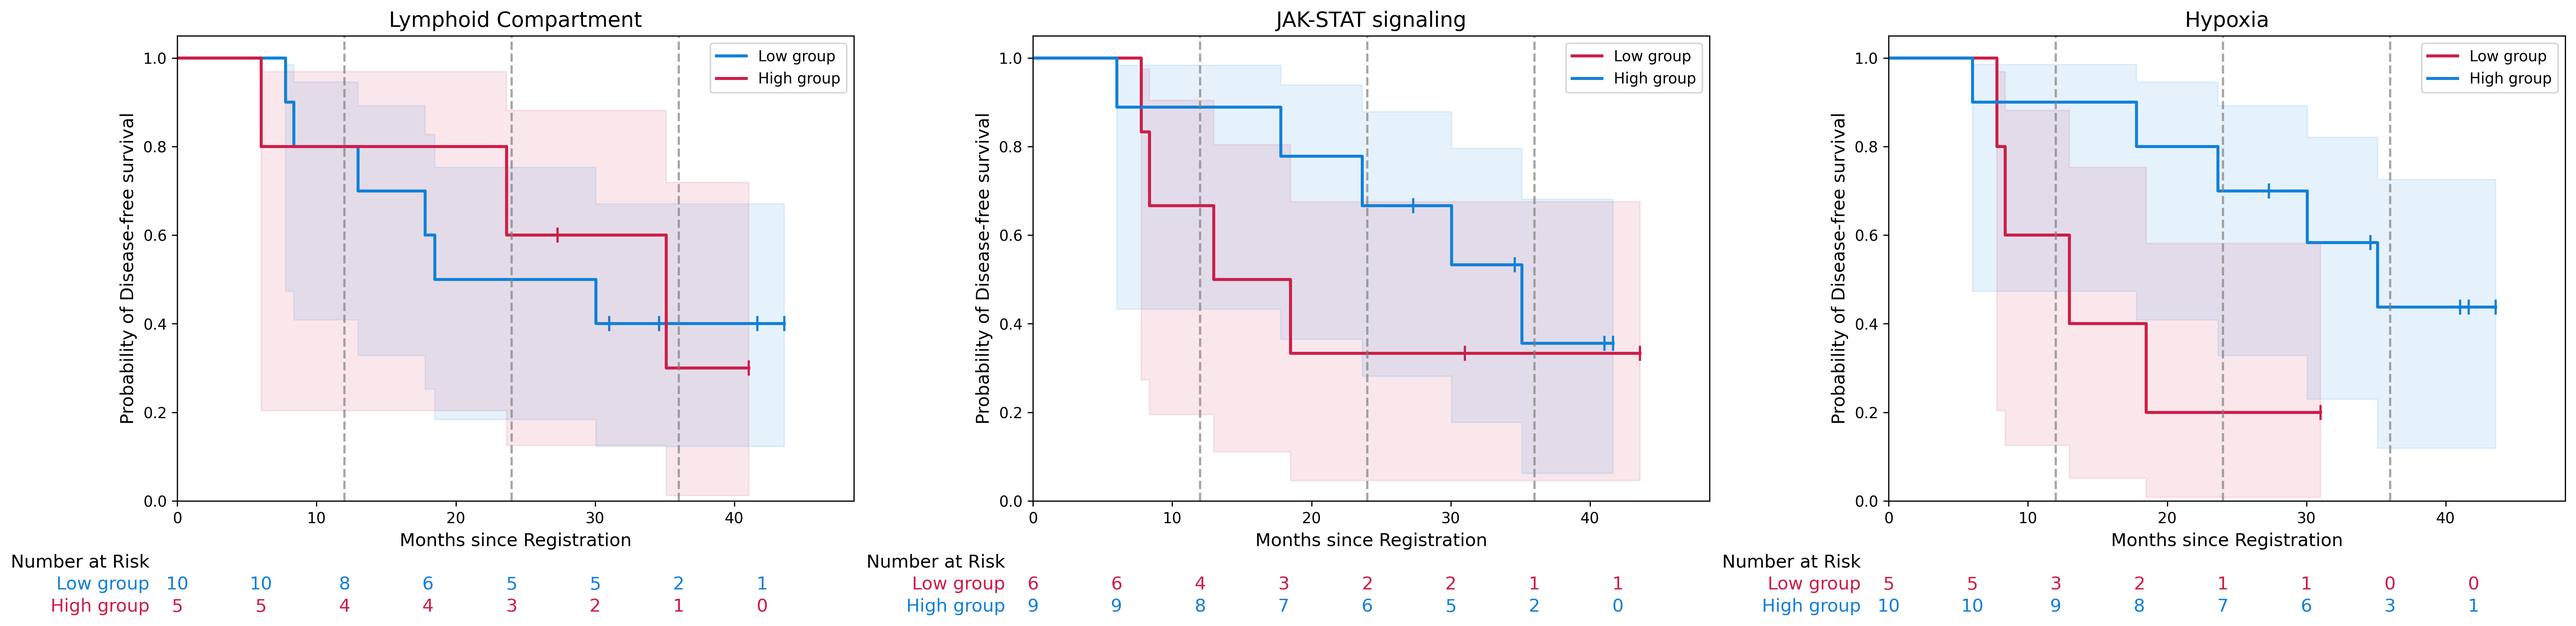
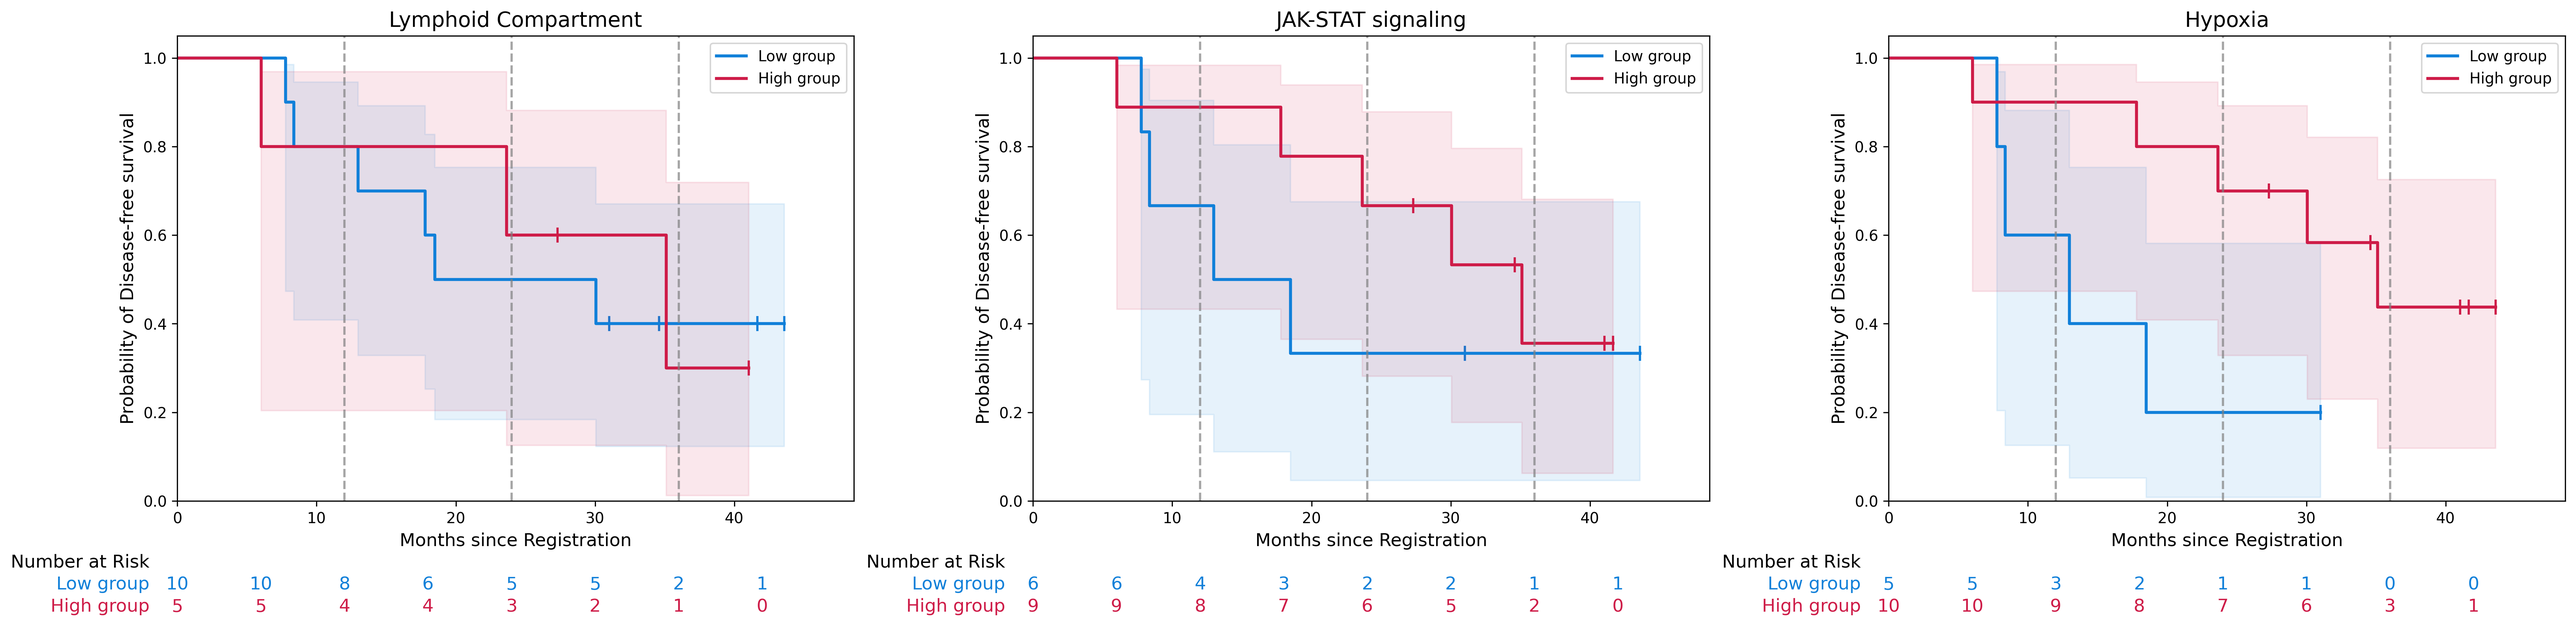
250702_v2

diff --git a/adjust/KM_DFS_TR.py b/adjust/KM_DFS_TR.py
@@ -25,7 +25,7 @@ df_selected = df[columns_needed].dropna()
 #     "hypoxia": {0: "Low group", 1: "High group"}
 # }
 
-def plot_km_by_category(ax, category_name, colors=["#CE1C48", "#1180D9"], ci_show=True, ci_alpha=0.1, invert_order=False):
+def plot_km_by_category(ax, category_name, colors=["#1180D9", "#CE1C48"], ci_show=True, ci_alpha=0.1, invert_order=False):
     """
     指定したカテゴリでKaplan-Meier生存曲線をプロットする関数。
 
@@ -91,7 +91,7 @@ def plot_km_by_category(ax, category_name, colors=["#CE1C48", "#1180D9"], ci_sho
 
 # ✅ KMプロットの作成・保存
 fig, axes = plt.subplots(1, 3, figsize=(24, 6))
-plot_km_by_category(axes[0], "Lymphoid Compartment", colors=["#1180D9", "#CE1C48"])
+plot_km_by_category(axes[0], "Lymphoid Compartment")
 plot_km_by_category(axes[1], "JAK-STAT signaling")
 plot_km_by_category(axes[2], "hypoxia")
 plt.tight_layout()
@@ -265,7 +265,7 @@ with open(output_path_txt, "w") as f:
 
         for group in unique_groups:
             df_group = df_selected[df_selected[category_name] == group].copy()
-            label_name = group_labels[category_name].get(group, f"{category_name} {group}")
+            label_name = "Low group" if group == 0 else "High group"
 
             kmf.fit(df_group["DFSMONTHS"], event_observed=df_group["DFS_event"])
             survival_probs = kmf.survival_function_at_times(time_points)
